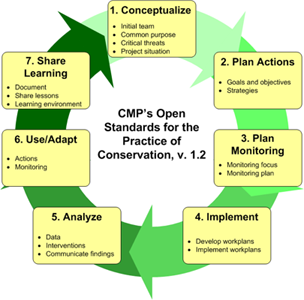
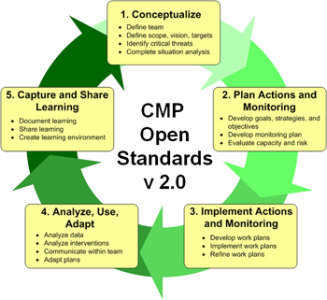
Update images in Help/Open Standards page

diff --git a/source/org/conservationmeasures/eam/views/umbrella/CMPStandards.html b/source/org/conservationmeasures/eam/views/umbrella/CMPStandards.html
@@ -48,7 +48,7 @@ useful conservation audit process.</P>
 </td>
 <td width='410'>
 <IMG hspace=20 src="images/standards/cmp-cycle2-1-400.png" 
-width=400 height=395 align=right vspace=20 border=0>
+width=350 height=321 align=right vspace=20 border=0>
 </td>
 </tr>
 </table>
@@ -74,7 +74,7 @@ principles and tasks for each step of the <EM>Open Standards.&nbsp; </EM></P>
 Conservation, Version 1.2<BR></STRONG><FONT size=2>Tasks that are currently 
 covered by the current version of the Miradi Software are shown in <FONT 
 color=#0000ff>blue text</FONT>.</FONT></FONT></P>
-<IMG src="images/standards/standardstable.png" width=625 height=343>
+<IMG src="images/standards/standardstable.png" width=893 height=543>
 <H3 align=left>&nbsp; 
 <HR>
 The Relationship Between the CMP<EM> Open Standards</EM> and 
@@ -108,7 +108,7 @@ organization can use Miradi Software in their work with only minimal
 <IMG src="images/standards/tnc-cycle-300h.png" width=343 height=300 align=left vspace=20>
 &nbsp;&nbsp;&nbsp;&nbsp;&nbsp;&nbsp;
 <IMG height=300 src="images/standards/wwf-cycle-300h.png" width=304 align=right vspace=20></P>
-<P align=center><IMG height=300 src="images/standards/cmp-cycle1-2-300h.png" width=304 align=middle></P>
+<P align=center><IMG height=300 src="images/standards/cmp-cycle1-2-300h.png" width=327 align=middle></P>
 <P align=center><IMG height=300 src="images/standards/mos-cycle-300h.png" width=278 align=right>
 <IMG height=300 src="images/standards/wcs-cycle-300h.png" width=415 align=left>
 </P>
